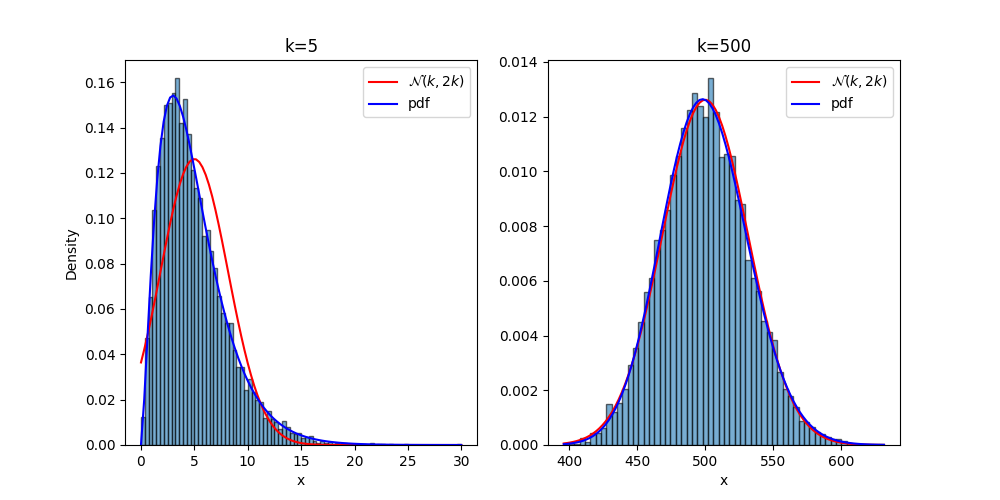
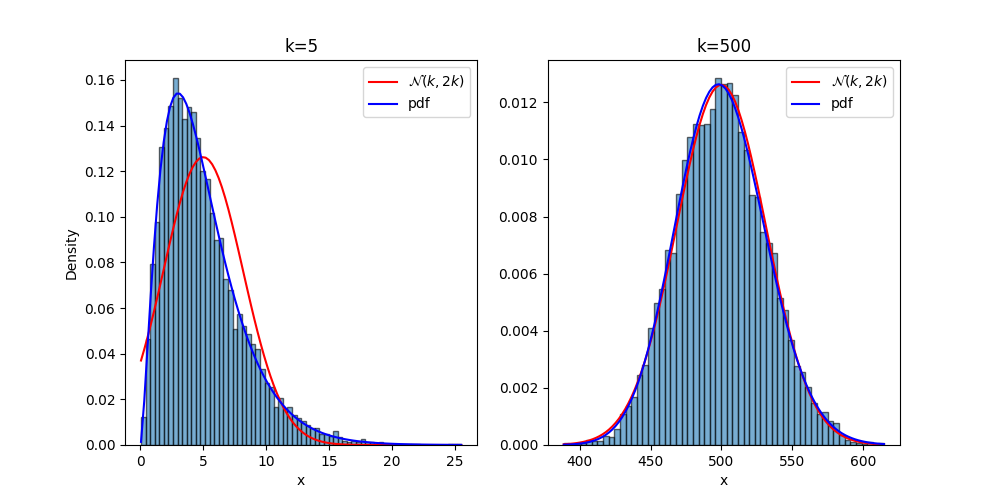
exercice sur les estimatiosn de pi, on a atracer toutes les figures demandé ( et notamment une comparaison entre l'approche deterministe et schorastique)

diff --git a/td9/td9.py b/td9/td9.py
@@ -106,6 +106,9 @@ plt.ylim(0,1)
 plt.xlabel('X')
 plt.ylabel('Y')
 plt.gca().set_aspect('equal')
+plt.title('Estimation de $\pi$ par Monte Carlo')
+plt.savefig('valeur_aleaoire_cercle.png')
+plt.show()
 
 
 def estimate_pi(N):
@@ -134,7 +137,8 @@ plt.xscale('log')
 plt.xlabel('$N$')
 plt.legend()
 plt.ylabel('Estimate')
-
+plt.savefig('fig09pi_estimation.png')
+plt.show()
 
 plt.figure()
 plt.plot(N_arr, error_arr, ls='', color='k', marker='x')
@@ -144,6 +148,8 @@ plt.yscale('log')
 plt.legend()
 plt.xlabel('$N$')
 plt.ylabel('Standard deviation')
+plt.savefig('fig09pi_error.png')
+plt.show()
 
 
 
@@ -161,7 +167,8 @@ def method_rectangle_left(f, N, a=0, b=1):
 
 def method_mc(f,N):
     U = rng.uniform(size=N)
-    ## A compléter Q.6
+    out = 1/N * np.sum(f(U))
+    return out
     
 
 err_rect = np.zeros_like(N_arr, dtype=float)
@@ -169,17 +176,16 @@ err_mc = np.zeros_like(N_arr, dtype=float)
 
 for i,n in enumerate(N_arr):
     pass
-    # A completer Q.6 
-
+    err_rect[i] = np.abs(method_rectangle_left(f,n) - np.pi)
+    err_mc[i] = np.sqrt(np.mean([(method_mc(f,n) - np.pi)**2 for k in range(R)]))
 plt.figure()
-## a completer Q.6 
-#plt.loglog(N_arr, err_rect, 'x', color='b',label='Rectangle')
-#plt.loglog(N_arr, err_mc, 'x', color='k',label='MC')
-
-
+plt.loglog(N_arr, err_rect, 'x', color='b',label='Rectangle')
+plt.loglog(N_arr, err_mc, 'x', color='k',label='MC')
 plt.legend()
 plt.xlabel('$N$')
 plt.ylabel('Error')
+plt.title('Deterministic vs Stochastic')
+plt.show()
 
 
 
@@ -191,7 +197,11 @@ def volume_exact(D):
 
 def estimate_volume(N,D):
     X = rng.uniform(low=-1.0, high=1.0, size=(N,D)) 
-    # a completer Q.7
+    ok = np.sum(X**2, axis=1) <= 1
+    n_ok = np.sum(ok)
+    V= 2**D * n_ok/N
+    return V
+
 
 def estimate_volume_grid(N,D): 
     M = round(N**(1./D))
@@ -211,19 +221,20 @@ errors_grid = np.zeros_like(N_arr, dtype=float)
 errors_mc = np.zeros_like(N_arr, dtype=float)
 
 for i,n in enumerate(N_arr):
-    pass    
-    ## a completer Q.8
-
+    errors_mc[i] = np.abs(estimate_volume(n,D) - volume_exact(D))  
+    errors_grid[i] = np.abs(estimate_volume_grid(n,D) - volume_exact(D))  
+    
 idfix = -1
 plt.figure()
-#plt.loglog(N_arr, errors_mc, 'x',color='k', label='MC')
-#plt.loglog(N_arr, errors_mc[idfix] * (N_arr/N_arr[idfix])**-0.5, ls=':', color='k',label=r'$\propto N^{-1/2}$')
-#plt.loglog(N_arr, errors_grid, 'x', color='b',label='Grid')
-#plt.loglog(N_arr, errors_grid[idfix] * (N_arr/N_arr[idfix])**(-1./D), ls='-.', color='b',label=r'$\propto N^{-1/D}$')
-
+plt.loglog(N_arr, errors_mc, 'x',color='k', label='MC')
+plt.loglog(N_arr, errors_mc[idfix] * (N_arr/N_arr[idfix])**-0.5, ls=':', color='k',label=r'$\propto N^{-1/2}$')
+plt.loglog(N_arr, errors_grid, 'x', color='b',label='Grid')
+plt.loglog(N_arr, errors_grid[idfix] * (N_arr/N_arr[idfix])**(-1./D), ls='-.', color='b',label=r'$\propto N^{-1/D}$')
 plt.legend()
 plt.xlabel('$N$ ')
 plt.ylabel('Error')
 plt.title('$D={}$'.format(D))
+plt.savefig('fig09volume.png')
+plt.show()
 
         
